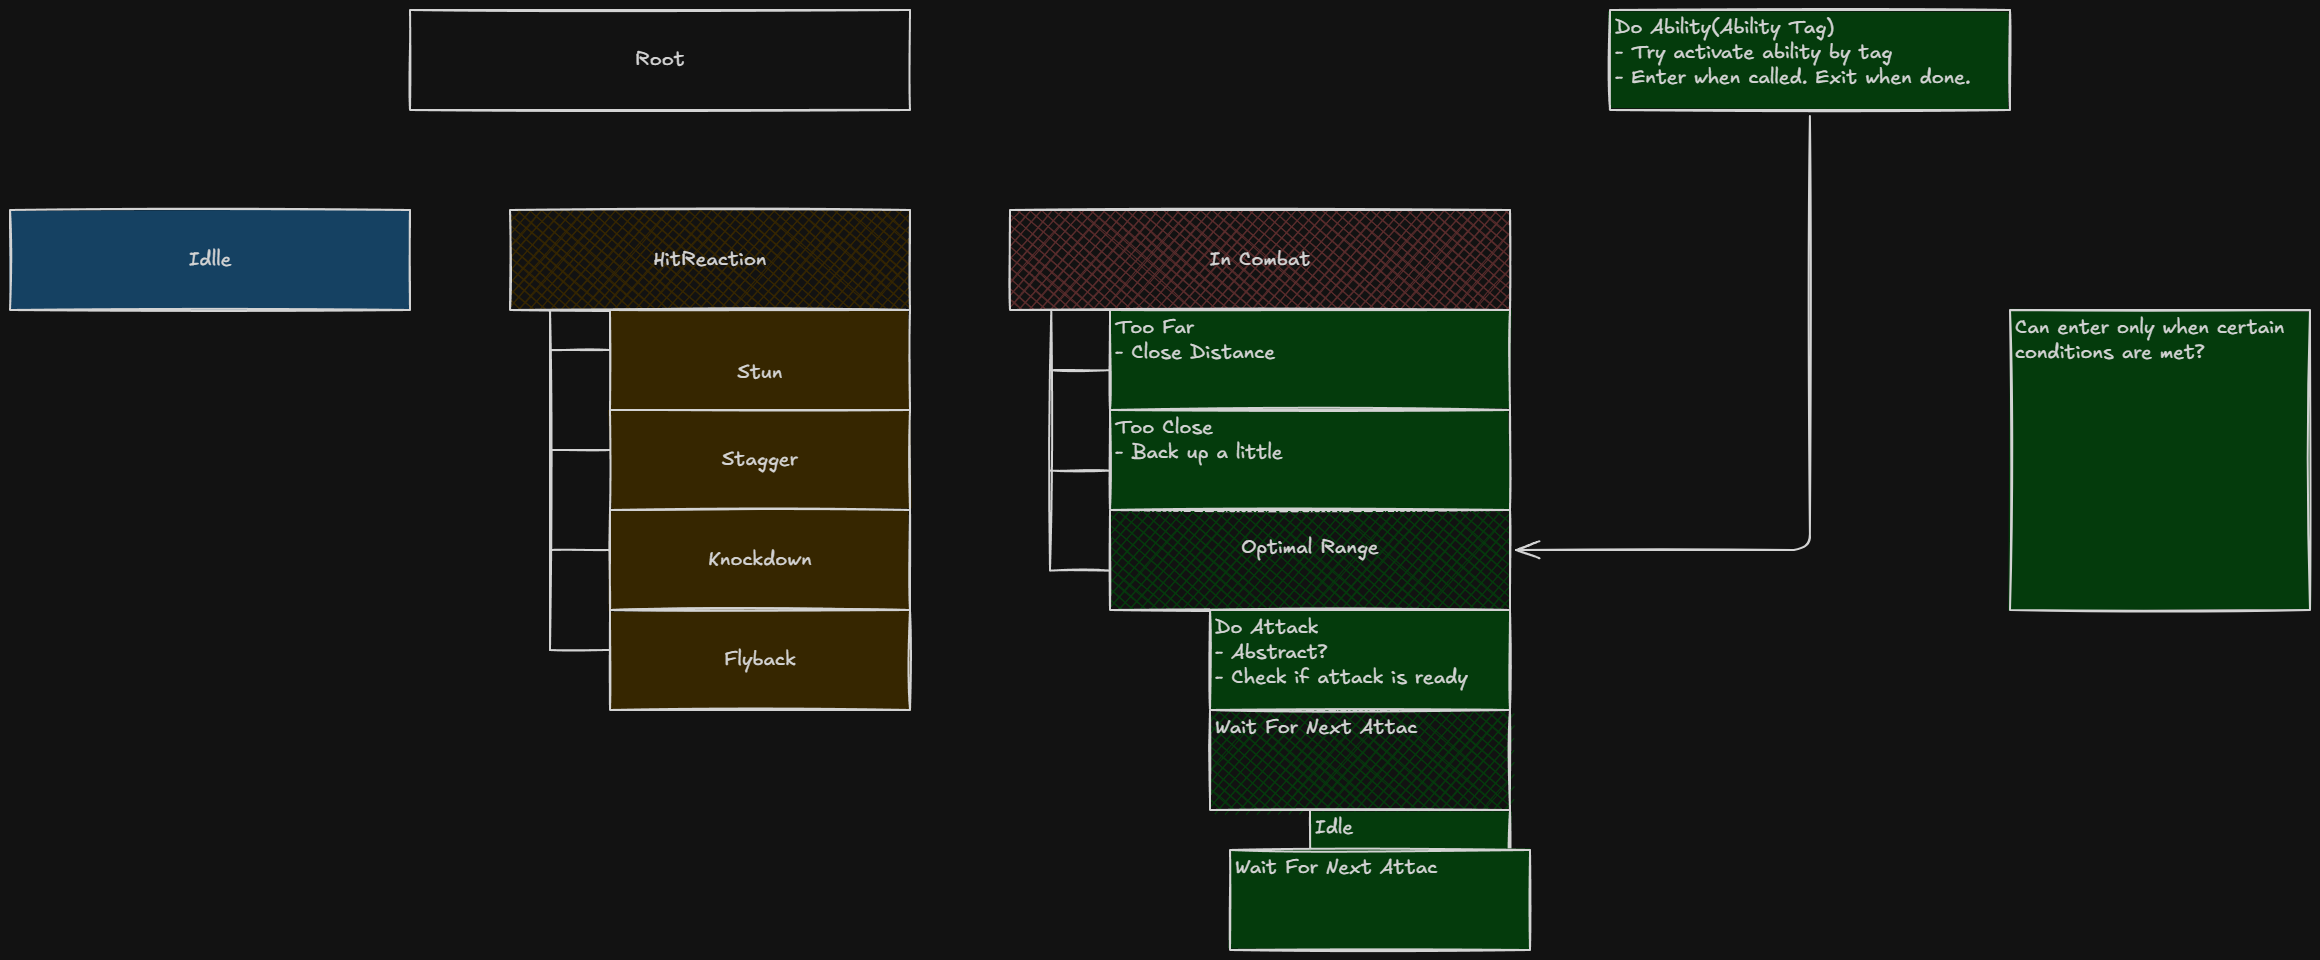
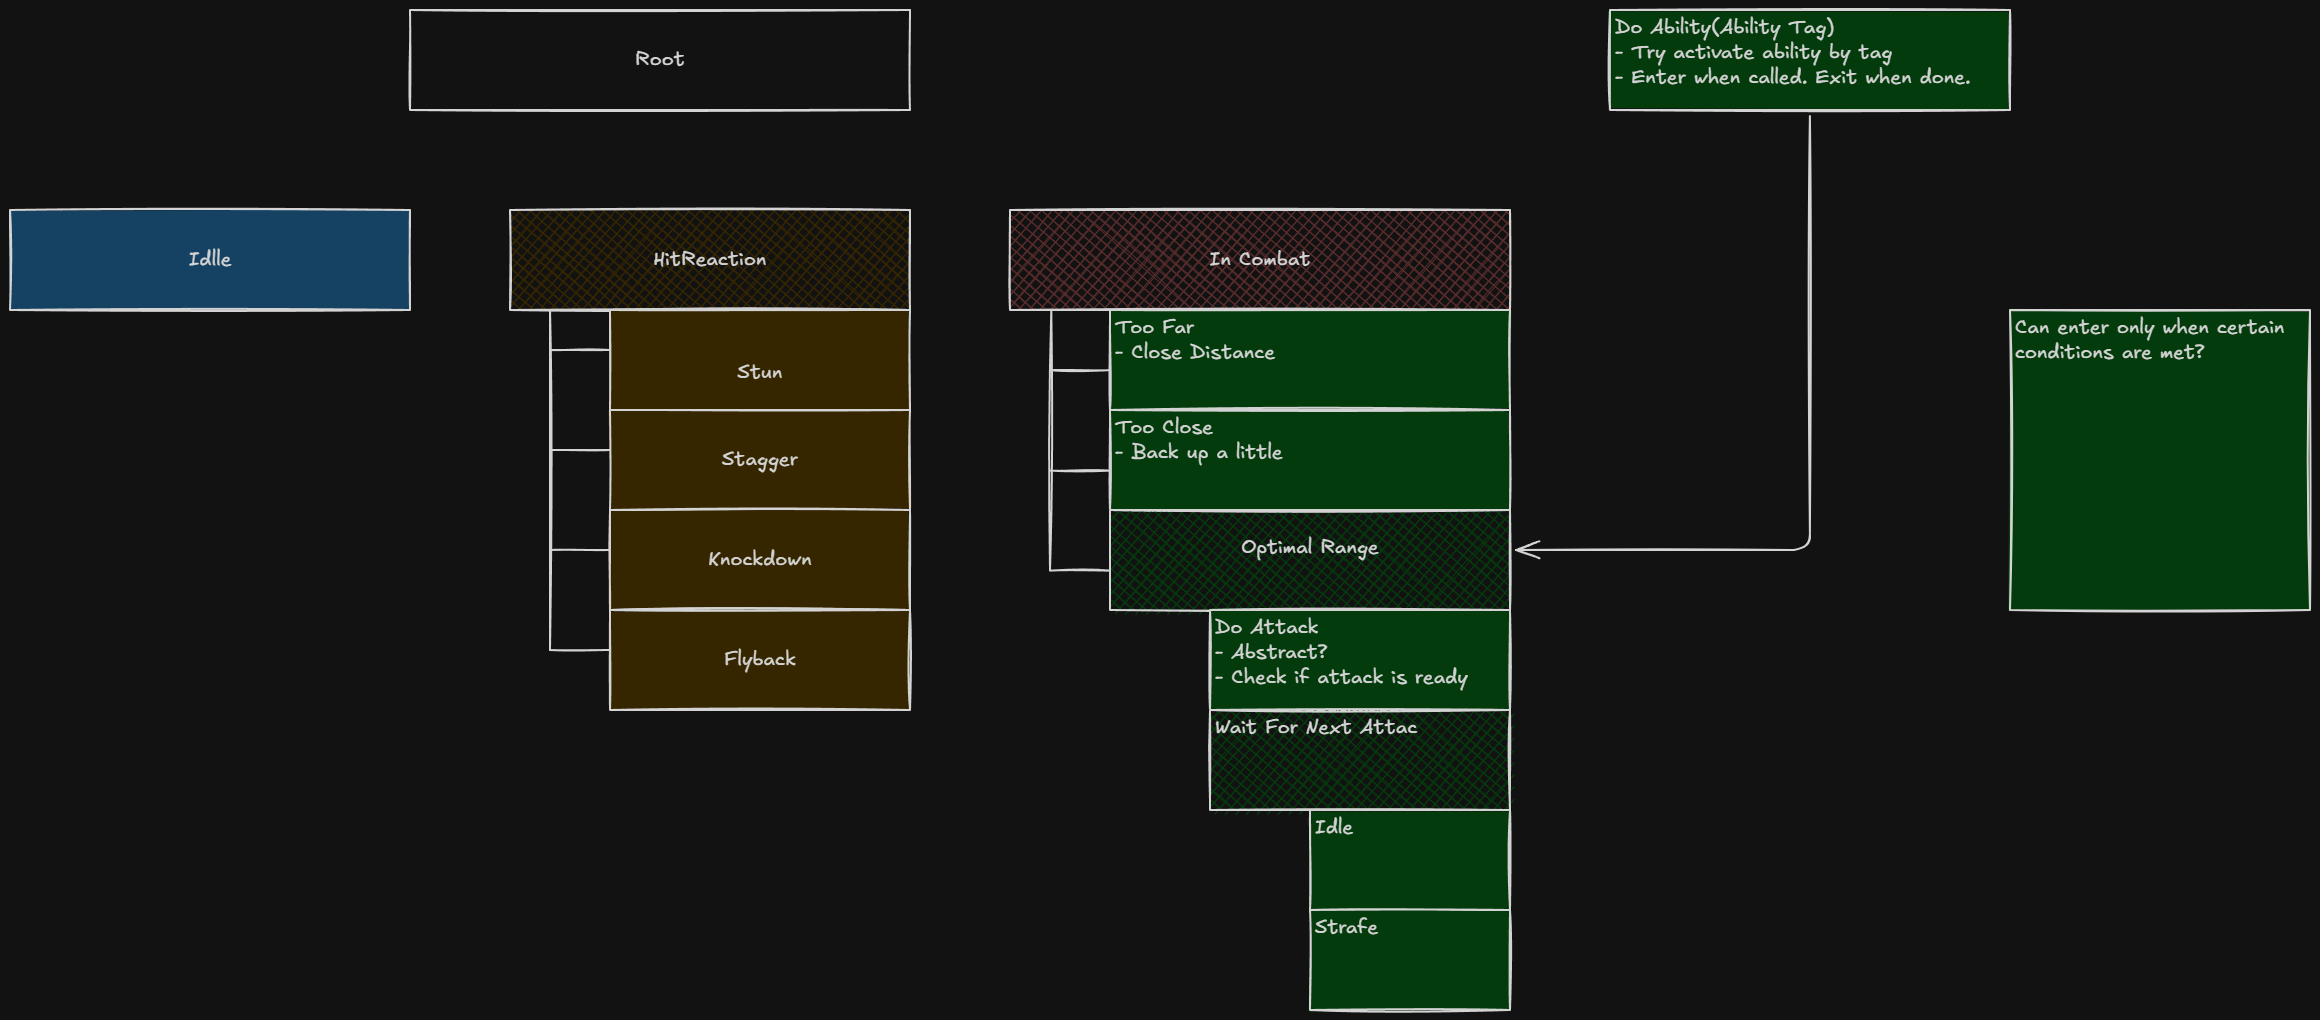
vault backup: 2026-06-05 04:50:37

diff --git a/Projects/Summer Project/Mechanics/AI Rework Graph.md b/Projects/Summer Project/Mechanics/AI Rework Graph.md
@@ -49,10 +49,12 @@ Wait For Next Attac ^ieKM584z
 
 Idle ^j7EmXGYx
 
-Wait For Next Attac ^HjwokcXM
+Strafe ^qBpFacUy
 
 %%
+
 ## Drawing
+
 ```compressed-json
[1 lines of base64/hex data omitted]
 
@@ -142,36 +144,37 @@ O3Ij2OWpC3pTskGa9RCmeLfV3in4H9MDWqdg87AoGc6IiXhqRmf3GJeHOhnGc41ojQFYVOTXvK4oaMzJ
 
[1 lines of base64/hex data omitted]
 
[2 lines of base64/hex data omitted]
 
[2 lines of base64/hex data omitted]
 
[2 lines of base64/hex data omitted]
 
[2 lines of base64/hex data omitted]
 
[2 lines of base64/hex data omitted]
 
[2 lines of base64/hex data omitted]
 
[2 lines of base64/hex data omitted]
 
[2 lines of base64/hex data omitted]
 
[2 lines of base64/hex data omitted]
 
[2 lines of base64/hex data omitted]
 
[2 lines of base64/hex data omitted]
 
[2 lines of base64/hex data omitted]
 
[2 lines of base64/hex data omitted]
 
[2 lines of base64/hex data omitted]
 
[2 lines of base64/hex data omitted]
 
[2 lines of base64/hex data omitted]
 ```
+
 %%
